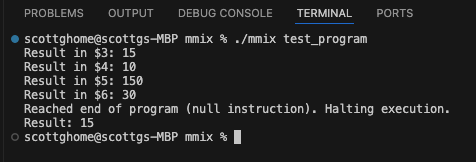
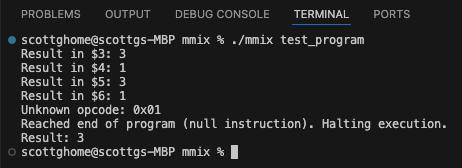
update

diff --git a/mmix.c b/mmix.c
@@ -77,7 +77,8 @@ void execute_instruction(uint32_t instruction) {
             registers[ra] = -((int64_t)rb);
             break;
         case 0x48: // SETH
-            registers[ra] = (uint64_t)rb << 48;
+            //registers[ra] = (uint64_t)rb << 48;
+            registers[ra] = (uint64_t)rb & 0xFFFF; // Set only lower 16 bits
             break;
         case 0xF8: // SYNC
             // Synchronize

diff --git a/instructions.c b/instructions.c
@@ -22,8 +22,8 @@ void execute_instructions() {
     }
 
     // Set initial values
-    registers[1] = 10;
-    registers[2] = 5;
+    registers[1] = 1;
+    registers[2] = 2;
 
     // Run the program
     PC = 0;
